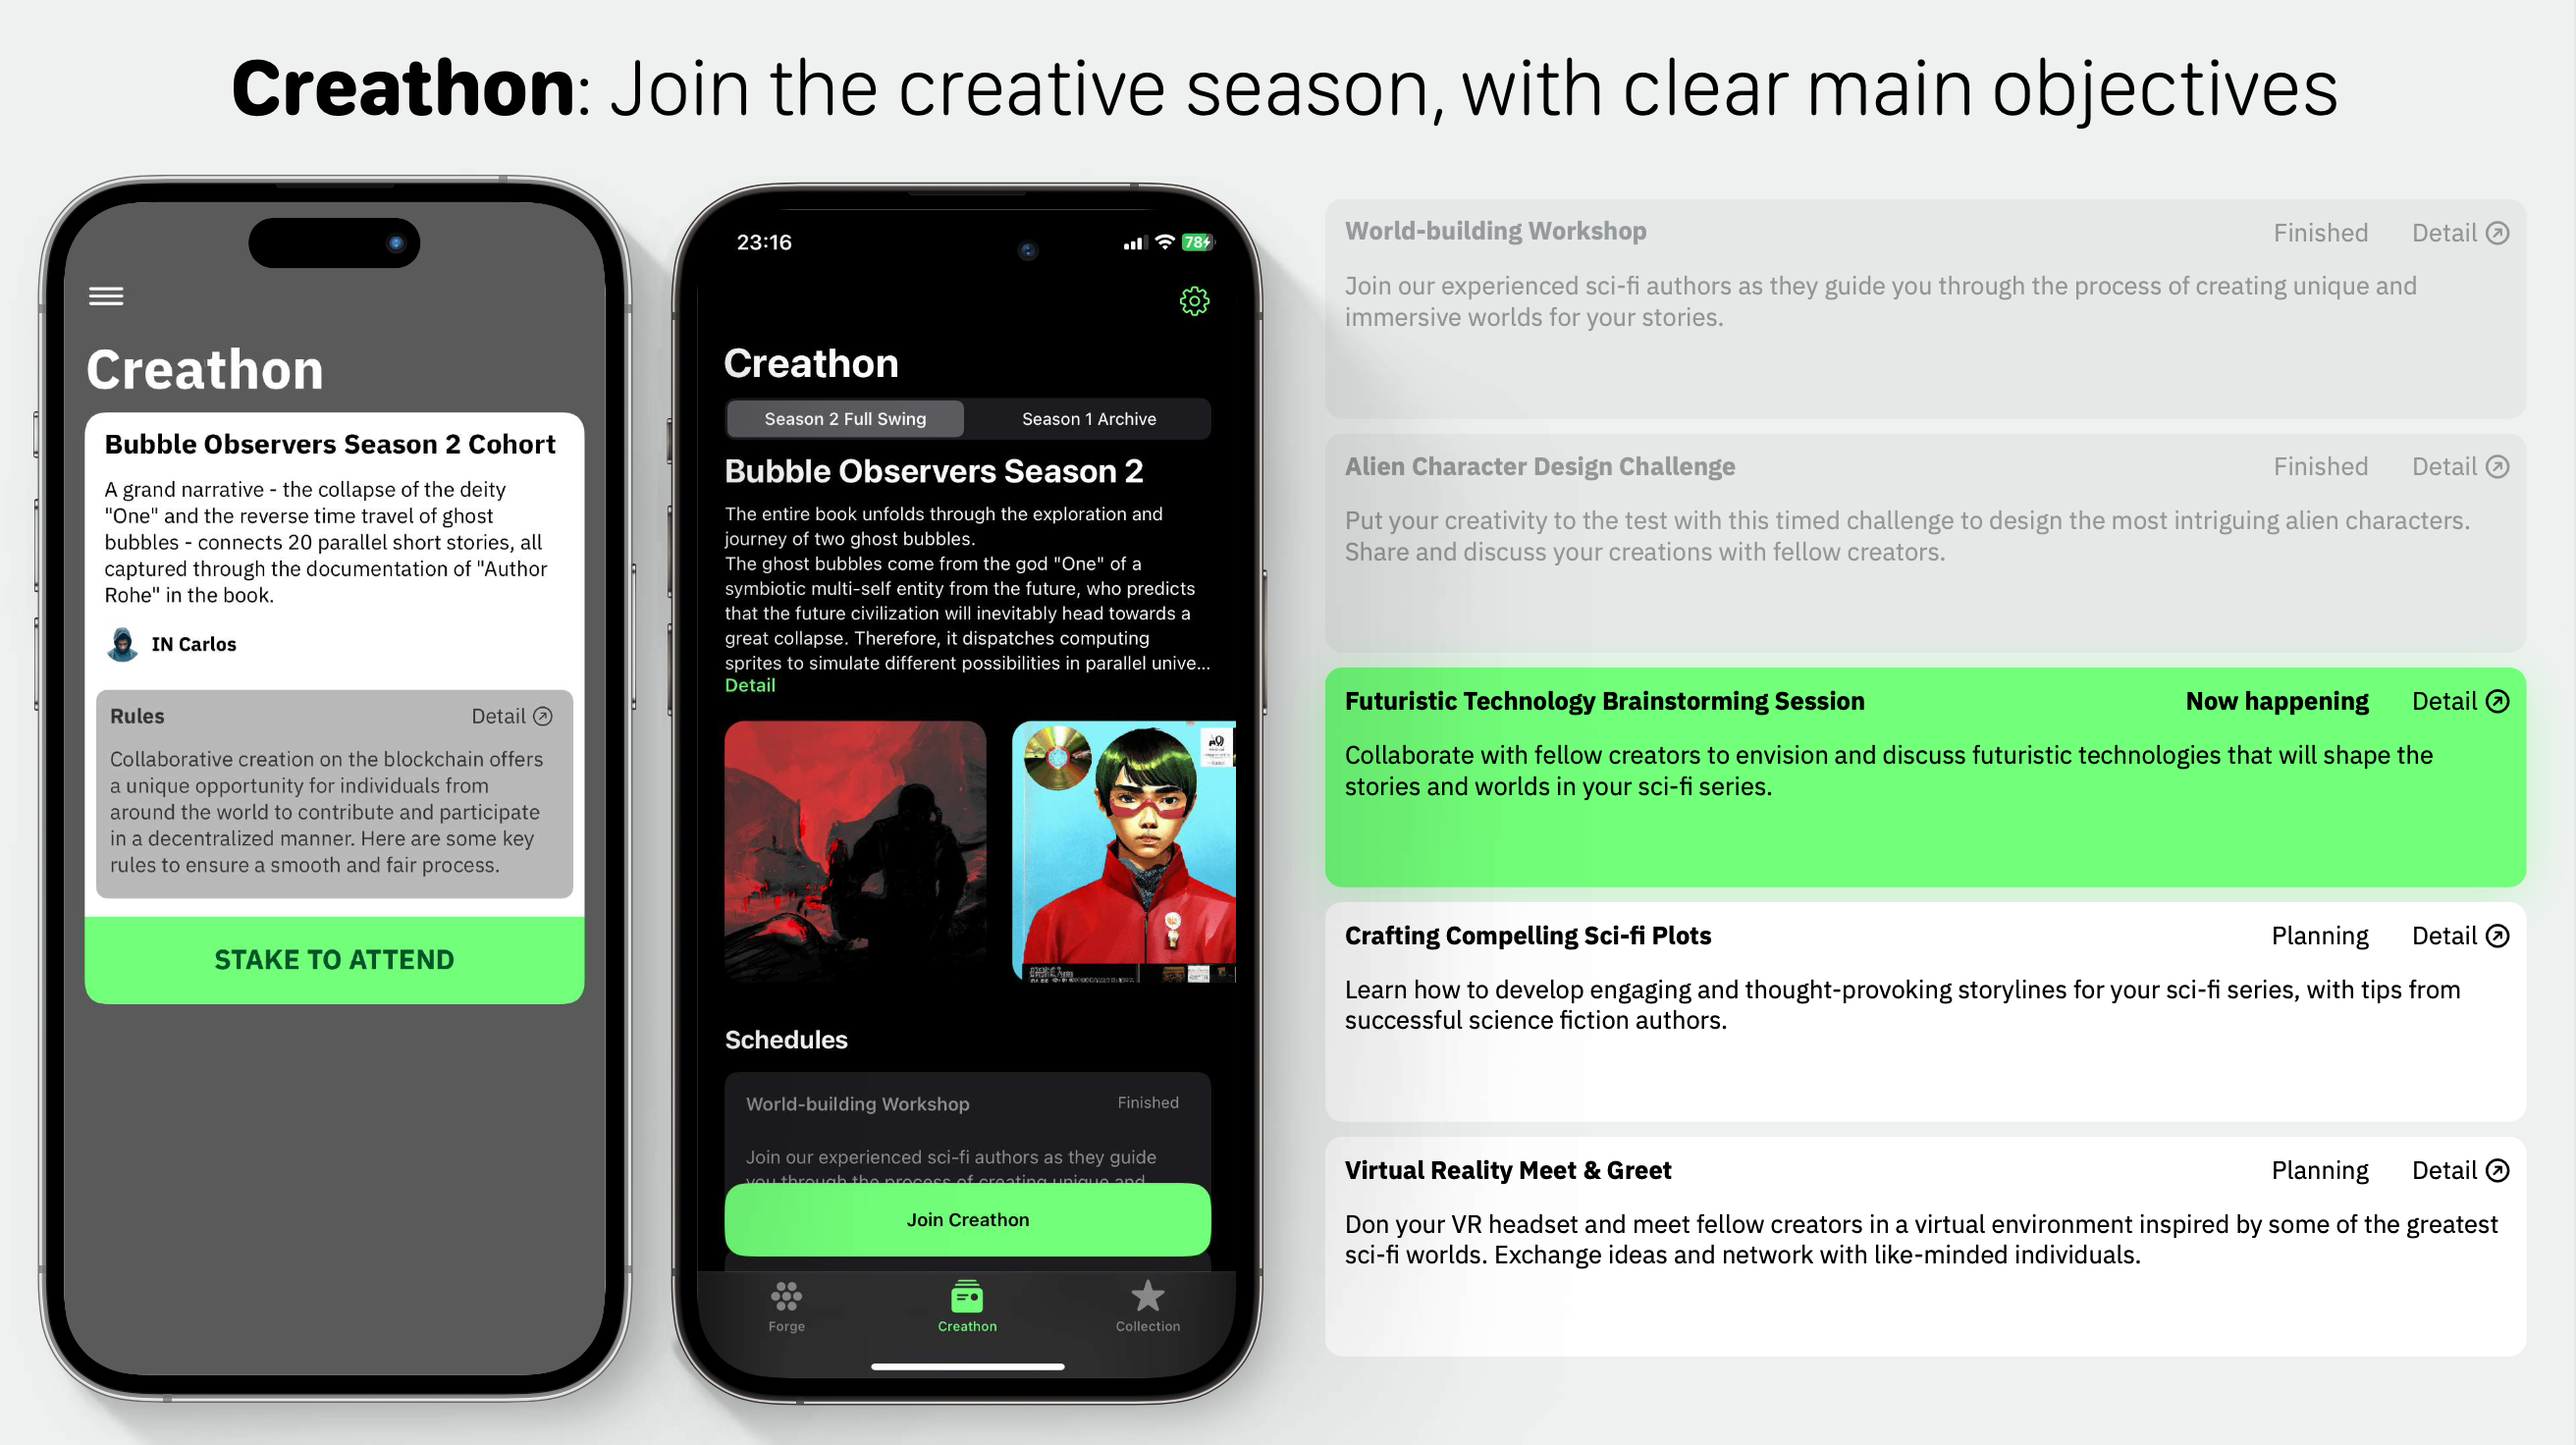
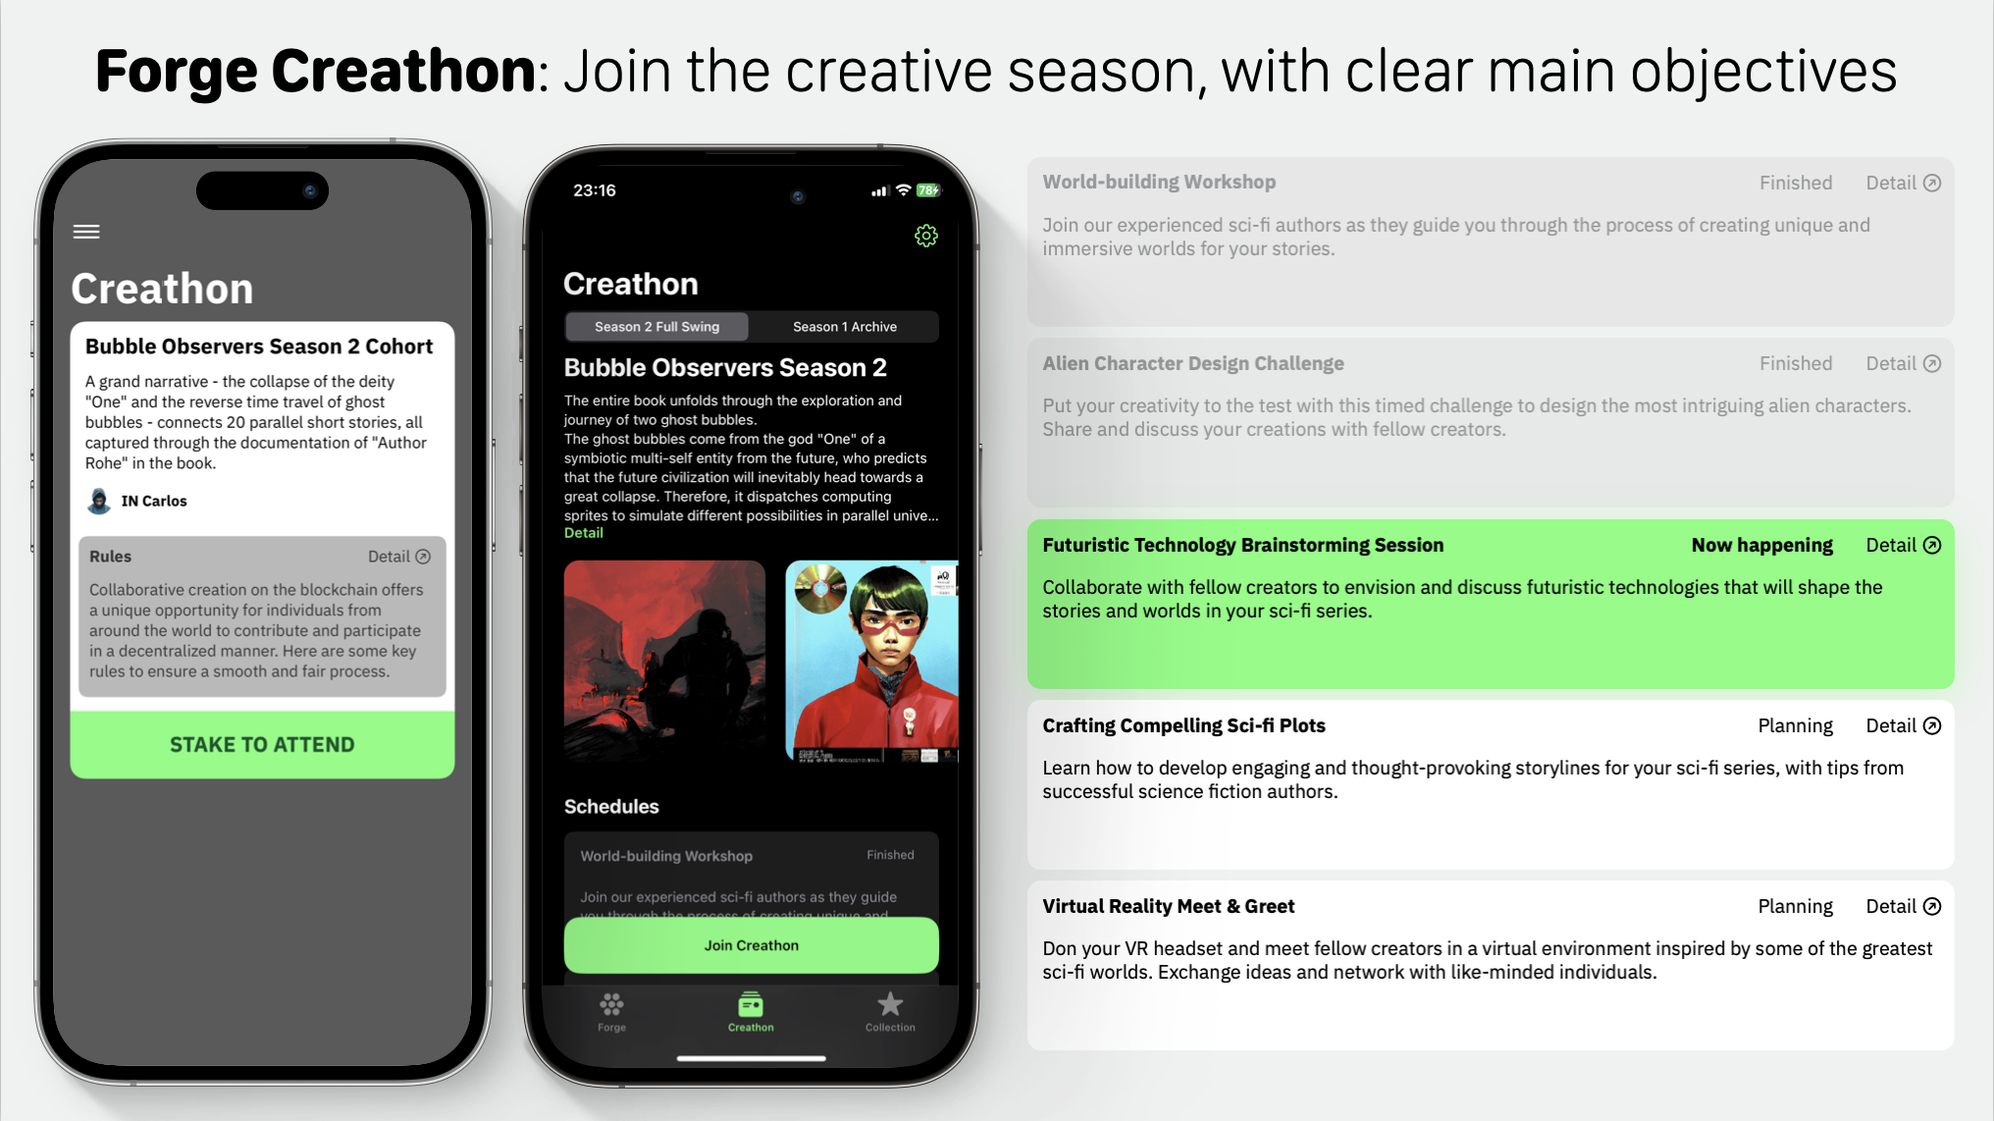
update readme

diff --git a/README.md b/README.md
@@ -1,33 +1,30 @@
+![demoimage](/demo-images/cover.png)
+
 Demo Video: 
 
-[![Demo Video](http://img.youtube.com/vi/VGqwawK82UQ/0.jpg)](http://www.youtube.com/watch?v=VGqwawK82UQ "magipop Creathon Solana Hyperdrive")
+[![Demo Video](http://img.youtube.com/vi/-BlsEQ0HAjg/0.jpg)](http://www.youtube.com/watch?v=-BlsEQ0HAjg "magipop Forge")
 
-Deck: https://docsend.com/view/ha9p3dirgwpgs6hf
-# Updates: Creathon for Solana
-- Solana integrated: magipop Creathon aims to leverage Solana’s high scalability, automation, and cost-efficiency. Drawing on Solana’s fully community-driven autonomous Web3 infrastructure and compatibility with the EVM system, we aspire to enhancing both the MagiPop and Solana ecosystems
-- Creathon Module Launched.
-- ZRC-20 integrated: Utilized ZetaChain's solution which supports BTC staking and voting. This allows the initiator of a creative project to kickstart collaborative creativity through BTC staking, and permits other administrators to participate in governance by staking BTC to vote.
-- Integrated the EVM mechanism and ZK technology to ensure copyright ownership and originality verification of the collaborative projects, which also guarantees fairness.
-## **Solana** **cNFT** Integrated
-![cNFT](/demo-images/cNFT.png)
-We could not have established such a thriving and collaborative creator community without the indispensable benefits brought by cNFTs on the Solana blockchain. Here are some of the key ways that cNFTs empower our Creathon:
+Deck: https://docsend.com/view/ymyk9kxua2vxppck
+# Updates: magipop Forge for Neo EVM-compatible Chain
+We could not have established such a thriving and collaborative creator community without the indispensable benefits brought by EVM Side-chain on the Neo blockchain. Key ways that EVM Side-chain empower our Forge:
 
-1. **cNFTs substantially boost efficiency on Solana** - By combining multiple NFTs into one, cNFTs reduce transactions and congestion, enabling seamless collaborative creation between our diverse creators.
-2. **cNFTs drastically lower costs** - Creators share gas fees when transacting using cNFTs, cutting the overall gas costs of our collaborative process tremendously. This makes participation far more accessible.
+1. **Significantly enhance efficiency with Neo's EVM-compatible sidechain** - By executing smart contracts written for Ethereum without changes, the sidechain reduces transaction complexity, facilitating seamless collaborative creation within our diverse community.
+2. **Enhance security** - The sidechain's structure designed to counter MEV attacks, such as frontrunning, enhances the trading experience and makes the system more resilient to potential attacks.
 3. **Enhance asset liquidity in mass content co-creation scenarios** - much easier for creators with multiple low-value NFTs to engage in decentralized finance and trading within our community.
-4. **Simplify management** - Creators don't have to manage each individual NFT separately, reducing operational complexity.
-5. **Improved scalability** - They are more developer-friendly, allowing large-scale automated generation of NFTs representing our collective works.
-6. **Boost security** - Their inherent structure makes them more resilient to potential attacks.
+4. **Simplify management** - The interoperability of Neo's sidechain with other networks reduces operational complexity, as community members don't have to manage interactions with each individual network separately.
+5. **Improved scalability** - The sidechain's compatibility with Ethereum's smart contracts makes it more developer-friendly, allowing for large-scale automated generation of contracts representing our collective works.
 
-## **Synergy & Contribution** to Solana
-1. Solana lacks projects in **the Passion Economy and creator economy spaces**, so magipop can **fill this gap** and provide unique value.
-2. magipop will **bring diverse types of creators into the Solana ecosystem**, expanding and enriching the creator community.
-3. Through **positive externality Tokenomic designs**, both internally and externally, magipop will enable creators, not just speculators, to earn real income and **move beyond the Ponzi model**. This aligns with Solana's goal of building real utility and value.
-4. magipop Creathon will fully utilize Solana's **high performance, scalibility and** **AI capabilities** to seamlessly integrate our AI models, enabling smooth idea scoring and evaluation for collaborative creativity.
-5. By focusing on niche passion communities, magipop will bring in **dedicated user bases that are deeply invested and engaged**, further increasing activity and transactions on Solana.
-6. magipop's gamified and transparent approach will **showcase the strengths of blockchain for new user segments**, acting as an onboarding portal for mainstream consumers to experience the benefits of Solana firsthand.
-7. As an innovative model for community-driven co-creation and crowdsourced storytelling, magipop will highlight new use cases that demonstrate Solana's versatility and ability to support next-gen applications.
+![demoimage](/demo-images/EVM.png)
+## **Synergy & Contribution** to Neo
+1. Neo lacks projects in **the Passion Economy and creator economy spaces**, so magipop can **fill this gap** and provide unique value.
+2. magipop will **bring diverse types of creators into the Neo ecosystem**, expanding and enriching the creator community.
+3. Through **positive externality Tokenomic designs**, both internally and externally, magipop will enable creators, not just speculators, to earn real income and **move beyond the Ponzi model**. This aligns with Neo’s goal of building real utility and value.
+4. magipop Creathon will fully utilize Neo’s **high performance, scalibility and** **AI capabilities** to seamlessly integrate our AI models, enabling smooth idea scoring and evaluation for collaborative creativity.
+5. By focusing on niche passion communities, magipop will bring in **dedicated user bases that are deeply invested and engaged**, further increasing activity and transactions on Neo.
+6. magipop's gamified and transparent approach will **showcase the strengths of blockchain for new user segments**, acting as an onboarding portal for mainstream consumers to experience the benefits of Neo firsthand.
+7. As an innovative model for community-driven co-creation and crowdsourced storytelling, magipop will highlight new use cases that demonstrate Neo’s versatility and ability to support next-gen applications.
 
+![demoimage](/demo-images/Synergy.png)
 # Vision
 Al fused co-creation tool for community, forging large-scale creativity into evolving stories.
 # Description
@@ -47,6 +44,7 @@ magipop Creathon hopes to leverage Ethereum’s excellent seamless EVM scalabili
 ## Idea tracking by LLM
 What truly distinguishes us is our creative AI assistant. Through the "detail_of" method, Creathon app seamlessly integrates diverse ideas from various creators, presenting them in a structured map. This approach makes collaborative creation feel like piecing together a story using LEGO. The Creathon map offers a unique space for creators to collaborate on fan-fiction storylines, all under a shared worldview. As a user contributes an idea, our AI analyzes it and positions it on the map, connecting it with other related ideas from different creators.
 meanwhile, Our "Creathon" turns this collaborative process into a playful competition. Here, creators engage in exciting challenges, and their creations are showcased on a map, highlighting the interconnections. This layout allows for an easy overview while also providing detailed insights when needed.
+![demoimage](/demo-images/8.png)
 ## magipop Data Chain
 The magipop Map Contract lies at the core of Creathon's unique creative-linking system. By seamlessly integrating the capabilities of blockchain, AI, and collective creativity, we initiate our system with a distinctive contract hash. This sets a secure and transparent foundation for all operations. Capitalizing on the efficiency of layer 2, we ensure that all crucial data is securely stored on-chain, thus safeguarding every creator's contributions. Moreover, the contract serves as a bridge, connecting creators with their innovative concepts. With built-in functions like "post" and "detail_of", creators have the flexibility to share their ideas and retrieve them when needed. This design promotes a lively environment where ideas flow naturally and collaborations emerge effortlessly.
 
